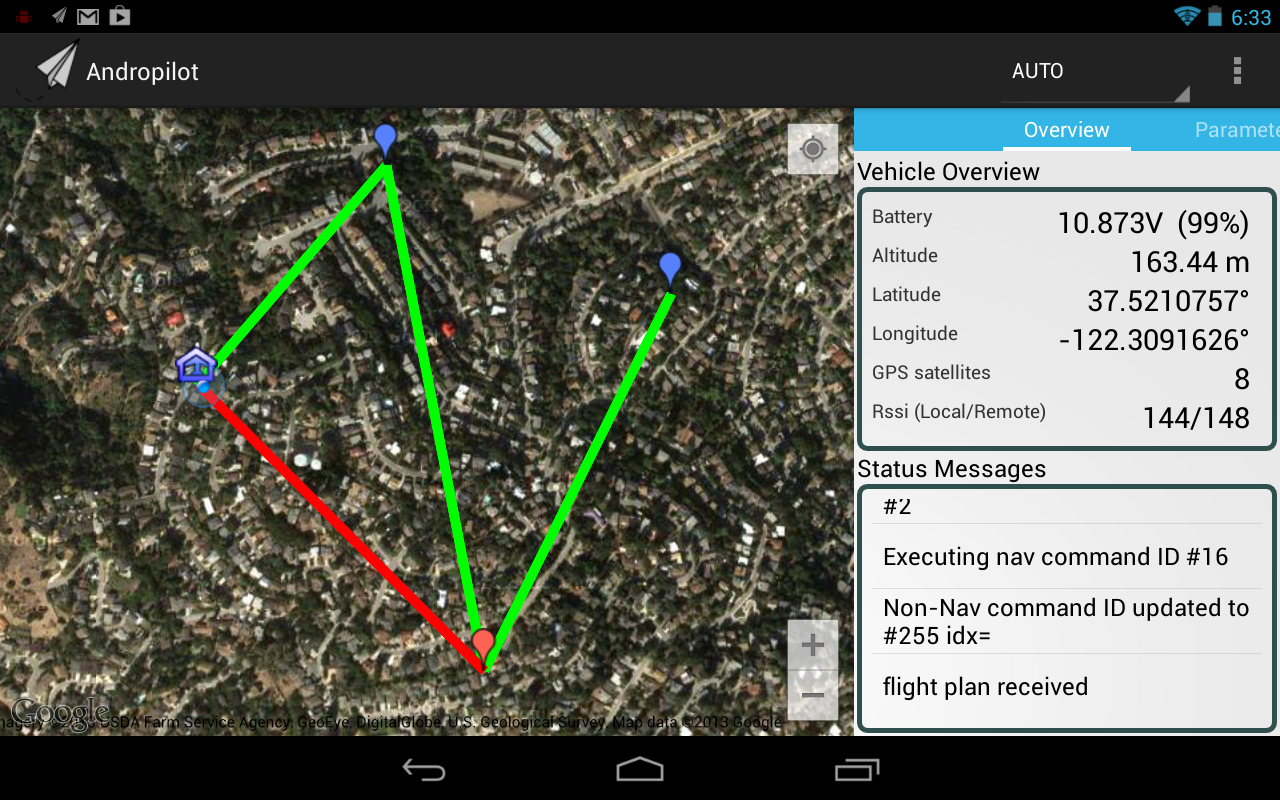
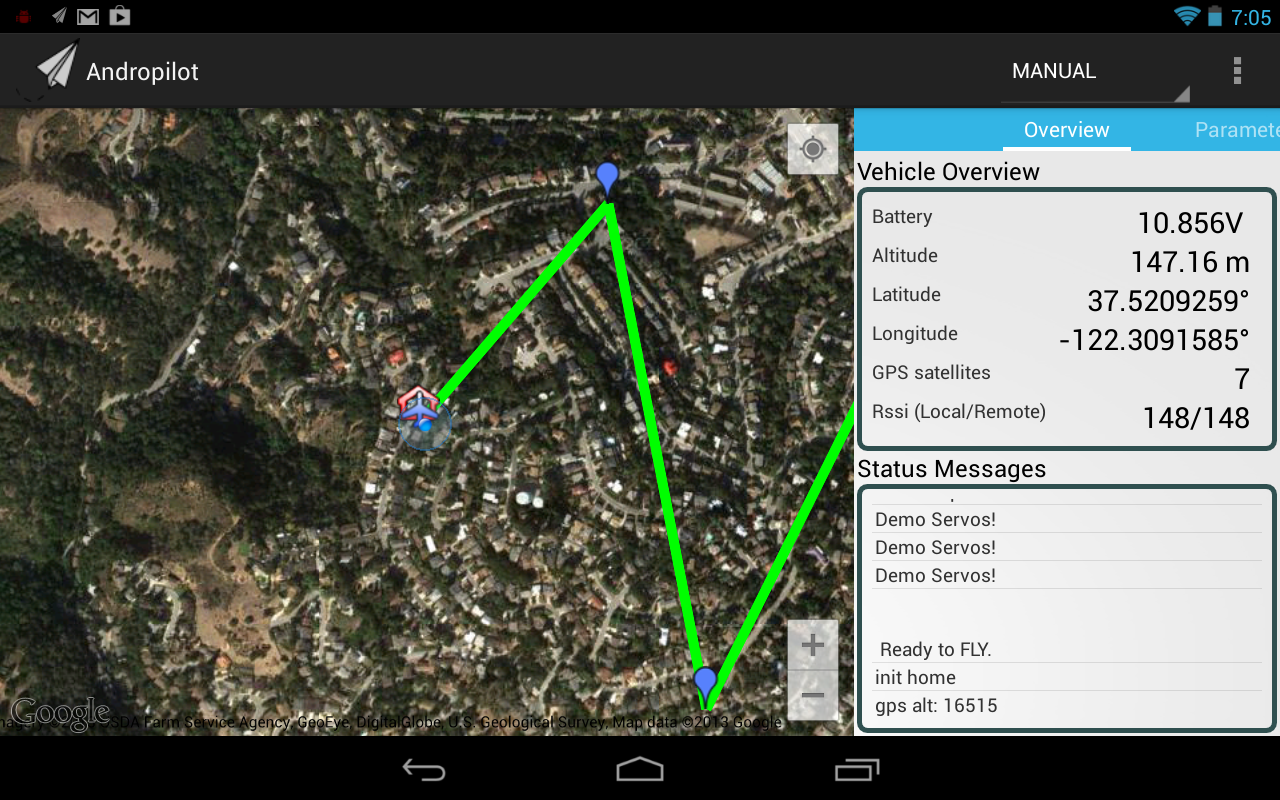
show some default strings on status window

diff --git a/RELEASE-NOTES.md b/RELEASE-NOTES.md
@@ -12,7 +12,6 @@
 * Add periodic updates for rcchannels (share actor client code with map & mainactivity)
 
 For next release:
-* FIXME - add vehicle info panel (should be easy now that I have the slidy panel stuff in)
 * FIXME - add waypoint panel (should be easy now that I have the slidy panel stuff in)
 * FIXME: fix udp receiver
 * FIXME: add waypoint change type (via menu dropdown)
